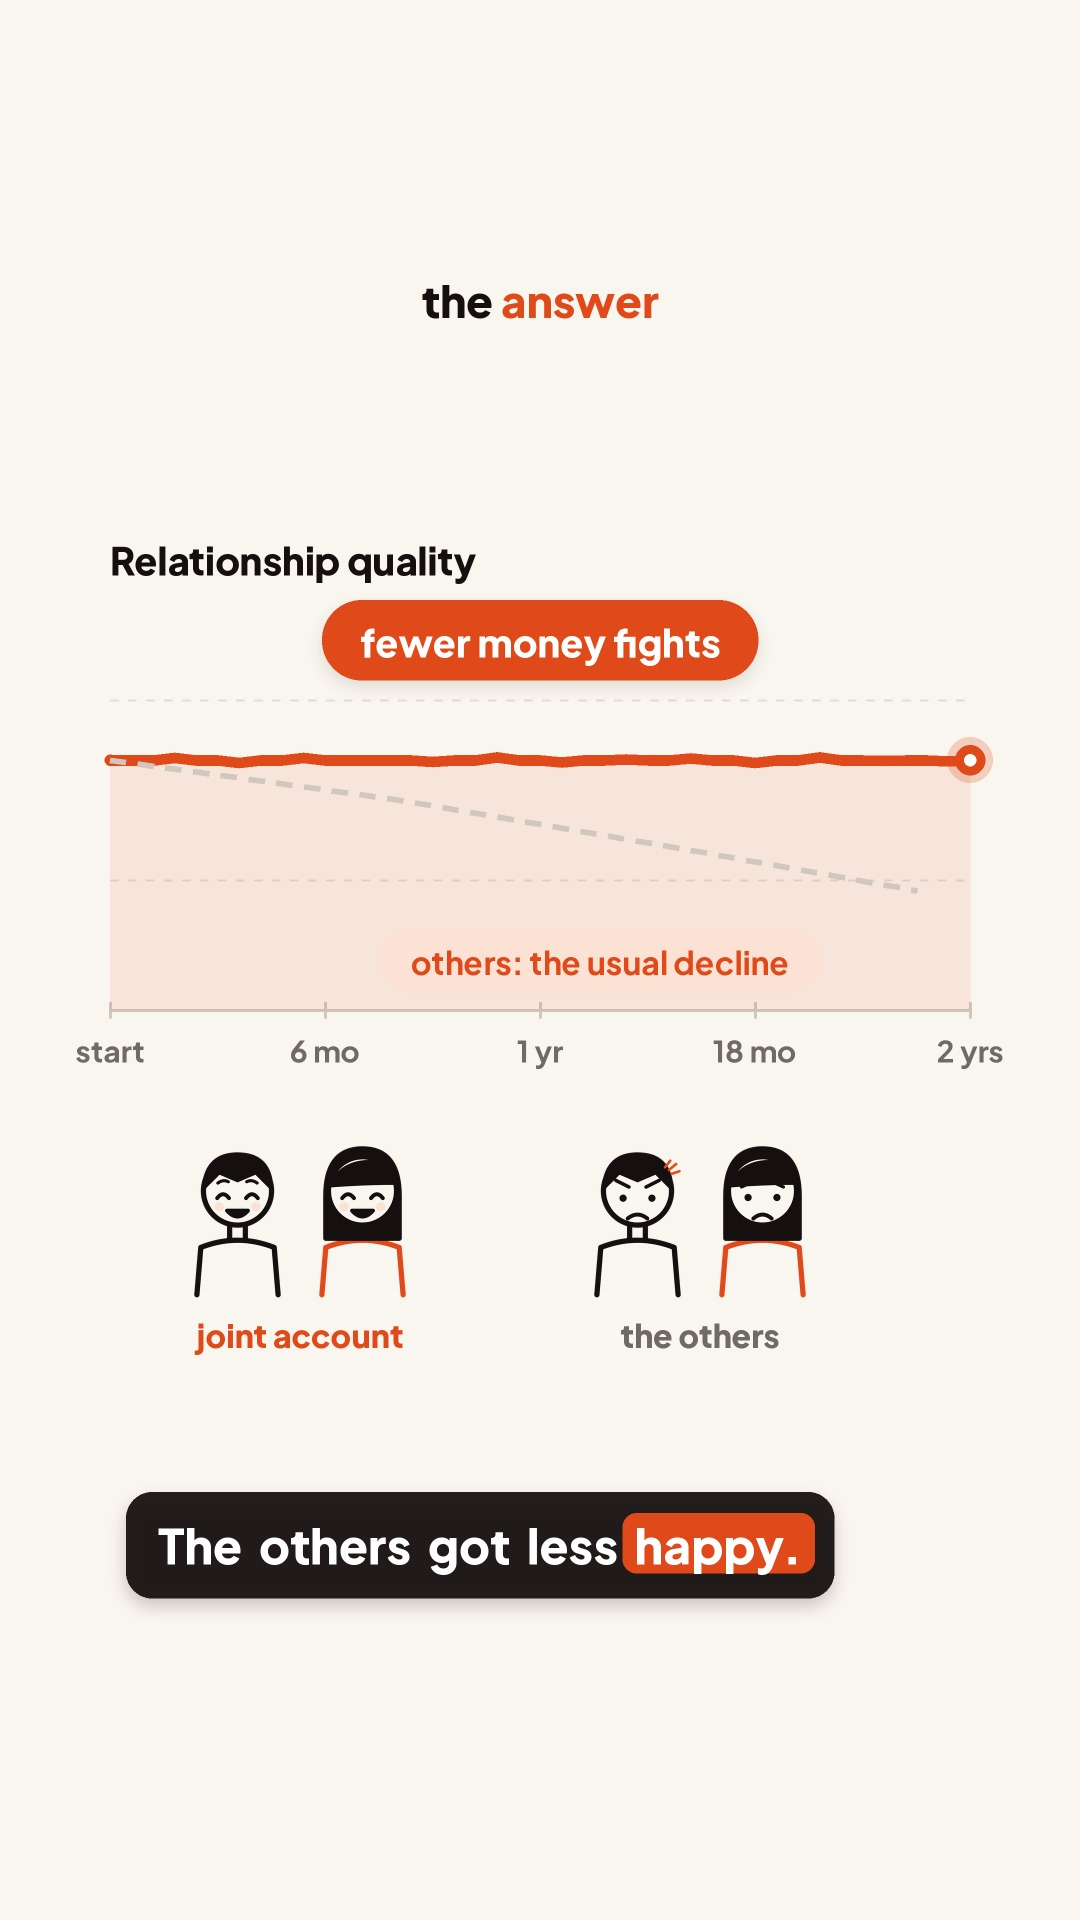
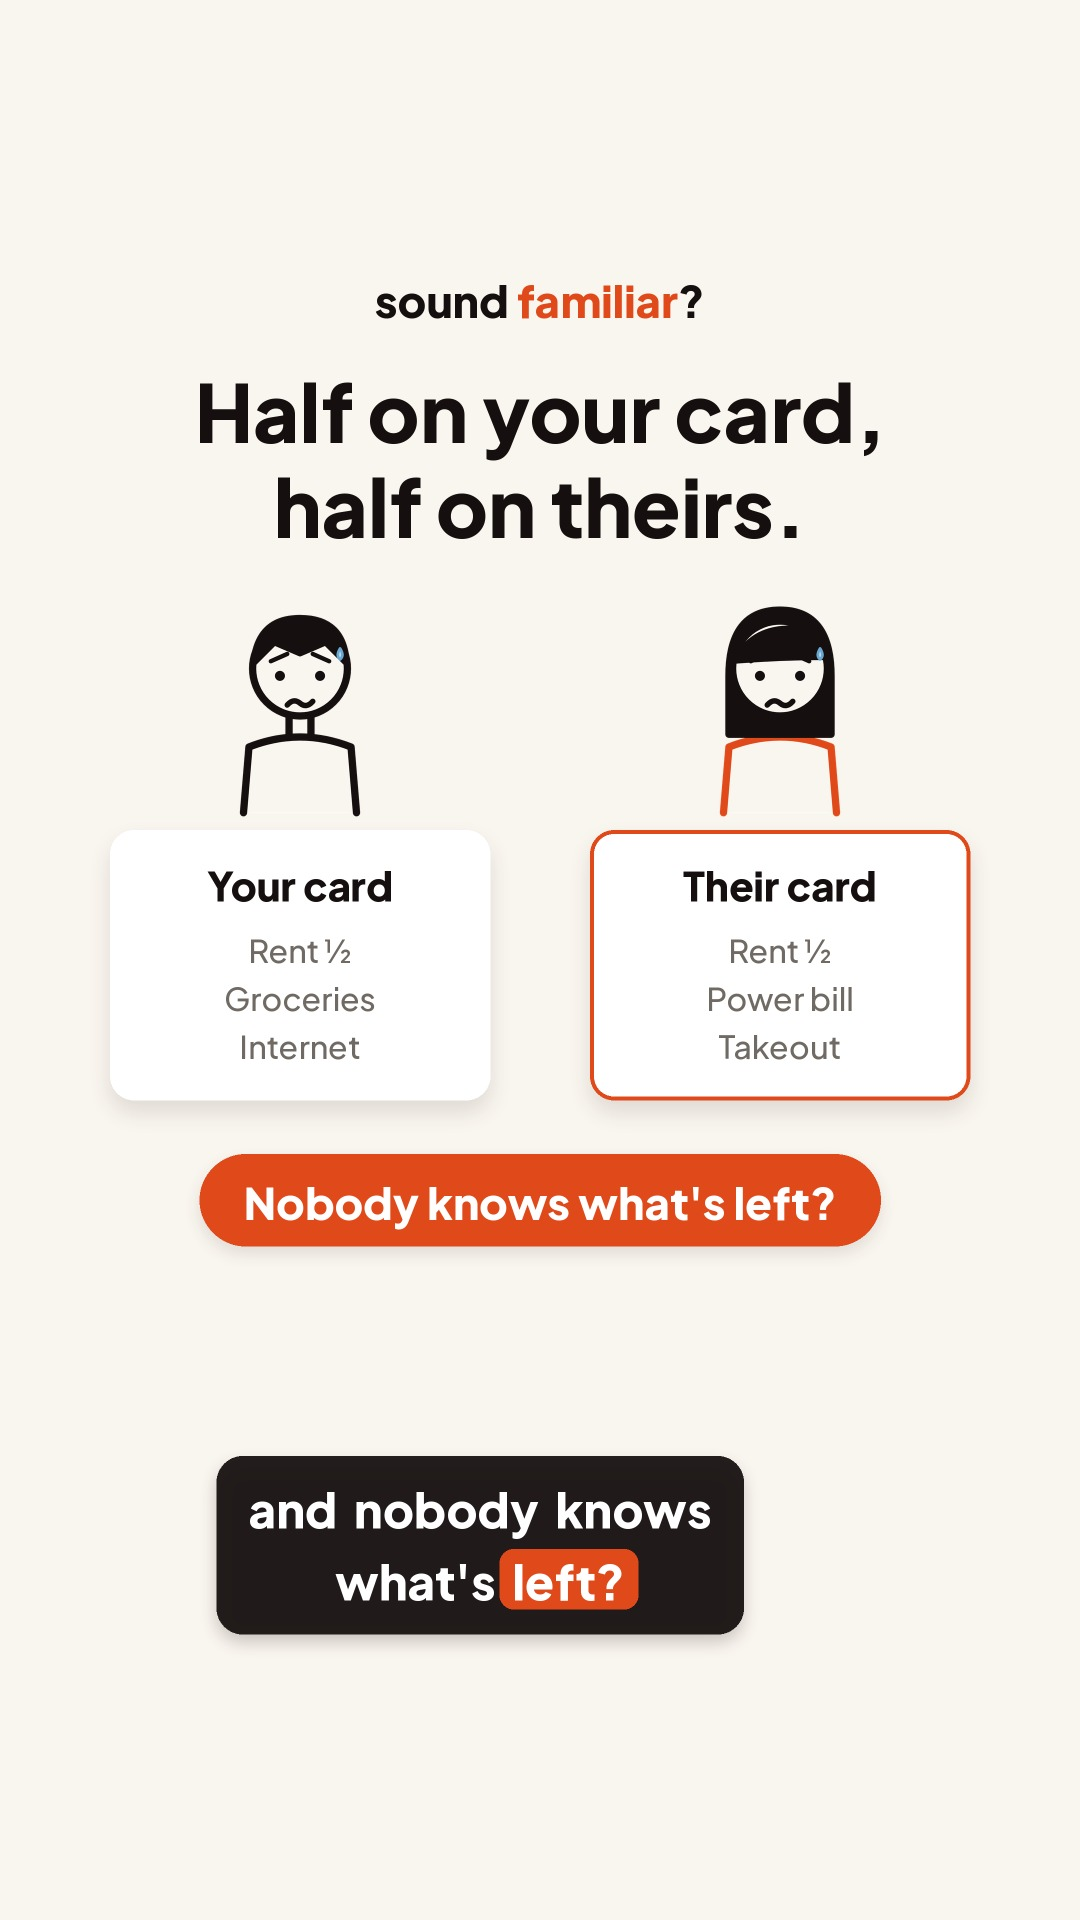
post: send the rendered hook frame as the Instagram cover (no more setting covers by hand)
post_reel.py: cover_url = entry.cover or reels/<video>_cover.jpg if present.
create.md: cover_at = end of the hook. S10 answer-first cover re-rendered.
100% line + branch coverage.

Claude-Session: https://claude.ai/code/session_01M8X1QCphfV6Q3x1PrrgF6t

Changed region(s): [[0.0611, 0.125, 0.9167, 0.7188], [0.0917, 0.75, 0.7944, 0.875]]

diff --git a/scripts/post_reel.py b/scripts/post_reel.py
@@ -15,6 +15,8 @@ What it does:
      Instagram keeps the FULL caption (with "Link in the comments.") while TikTok/YouTube drop that line:
      * refuses unless status is "approved" (or "posted" with Instagram already live, to finish the
        other platforms), and the entry has a file and a caption;
+     * cover = entry.cover (repo path), else reels/<video>_cover.jpg when the renderer made one (`--cover`),
+       sent as the Reel's cover_url, so nobody has to set it by hand in the app;
      * main entry -> Reel, share_to_feed on, `first_comment` = entry.first_comment (if set and no
        first_comment_id yet); trial entry -> Reel with trial_strategy MANUAL (no first comment);
      * skipped when Instagram is already live (`media_id` / `instagram_id`) or already sent
@@ -44,6 +46,7 @@ from zoneinfo import ZoneInfo
 
 import post_postproxy as pp
 
+ROOT = os.path.join(os.path.dirname(os.path.abspath(__file__)), "..")
 IG_PROFILE = "6lUEBB"  # @getdivvyupp Instagram (GET /api/profiles; platform_id 17841422626862357)
 ET = ZoneInfo("America/New_York")
 RECENT_POSTS = 20  # Postproxy posts checked for an earlier send of the same file
@@ -77,8 +80,20 @@ def check_postable(e):
                          f"{e['instagram_postproxy_id']}; check that post, never re-post")
 
 
+def cover_path(e):
+    """entry.cover, else reels/<video name>_cover.jpg next to the video if it exists in the repo; None otherwise."""
+    if e.get("cover"):
+        return e["cover"]
+    stem, _ = os.path.splitext(e["file"])
+    guess = stem + "_cover.jpg"
+    return guess if os.path.exists(os.path.join(ROOT, guess)) else None
+
+
 def ig_payload(e):
     ig = {"format": "reel"}
+    cover = cover_path(e)
+    if cover:
+        ig["cover_url"] = pp.PAGES + cover
     if e.get("kind", "main") == "trial":
         ig["trial_strategy"] = "MANUAL"
     else:

diff --git a/scripts/test_post_reel.py b/scripts/test_post_reel.py
@@ -26,6 +26,11 @@ def comments(*rows):
     return {"data": list(rows)}
 
 
+@pytest.fixture(autouse=True)
+def _no_repo_covers(tmp_path_factory, monkeypatch):
+    monkeypatch.setattr(pr, "ROOT", str(tmp_path_factory.mktemp("root")))
+
+
 def run(p, responses, entry_id="r1", **kw):
     seen, logs = [], []
     code = pr.run(entry_id, key=KEY, opener=opener_from(responses, seen), sleep=lambda s: None,
@@ -234,3 +239,14 @@ def test_defaults(tmp_path, monkeypatch, capsys):
 
 def test_fake_resp_reexport():
     assert FakeResp(b"{}").read() == b"{}"
+
+
+def test_cover_from_entry_and_from_rendered_file(tmp_path, monkeypatch):
+    monkeypatch.setattr(pr, "ROOT", str(tmp_path))
+    assert pr.ig_payload(entry(cover="reels/x.jpg"))["platforms"]["instagram"]["cover_url"] == \
+        "https://divvyupp.github.io/divvyupp-media/reels/x.jpg"
+    assert "cover_url" not in pr.ig_payload(entry())["platforms"]["instagram"]
+    (tmp_path / "reels").mkdir(); (tmp_path / "reels" / "r1_cover.jpg").write_bytes(b"jpg")
+    assert pr.ig_payload(entry())["platforms"]["instagram"]["cover_url"] == \
+        "https://divvyupp.github.io/divvyupp-media/reels/r1_cover.jpg"
+    assert pr.ig_payload(entry(kind="trial"))["platforms"]["instagram"]["cover_url"].endswith("r1_cover.jpg")

diff --git a/runs/create.md b/runs/create.md
@@ -97,7 +97,9 @@ No Runway in this run (Srini, 2026-11-21): use only images that are in the repo,
 `pipeline/assets/characters/` and the drawn presenters. Never point a spec at a `/tmp` path: older `hooks/` specs
 reference Runway images from past chat sessions that no longer exist. Srini polishes the visuals himself after review.
 Use `pipeline/make_story_reel.py` with a spec in `hooks/<today>-a.json` (trial variants `-t1`, `-t2`), or another
-format if the bet calls for it and the tool exists. `--check` first and look at every still; then render. Save each
+format if the bet calls for it and the tool exists. `--check` first and look at every still; then render. Then render the cover: set the spec's `"cover_at"` to `[0, "<last words of the hook>"]` (the hook frame with all
+its text on screen; Srini, 2026-11-27) and run with `--cover`; commit `reels/<id>_cover.jpg` with the video. The Post
+run sends it as the Instagram cover. Save each
 video as `reels/<id>.mp4`: the dashboard shows it there for Srini to review (the repo is public; Srini accepted on
 2026-11-21 that Reels waiting for review are visible).
 

diff --git a/runs/post.md b/runs/post.md
@@ -15,7 +15,8 @@ Post today's approved Reels to @getdivvyupp. Only entries Srini explicitly appro
    `python3 scripts/post_reel.py <entry.id>`
    (`--dry-run` prints both payloads and sends nothing.) What it does, in order:
    - **Instagram first**, as its own Postproxy post (profile `6lUEBB` = account `17841422626862357`): Reel,
-     `share_to_feed` on, caption = `entry.caption` exactly, video =
+     `share_to_feed` on, cover = `entry.cover` or the rendered `reels/<video>_cover.jpg` (2026-11-27: no more setting
+     covers by hand), caption = `entry.caption` exactly, video =
      `https://divvyupp.github.io/divvyupp-media/<entry.file>`. Main entries with `first_comment` (and no
      `first_comment_id`) get it as Postproxy's `first_comment`, posted right after the Reel is live; the script
      records Instagram's comment id as `first_comment_id` when Postproxy lists it. Instagram's API can't pin comments:
